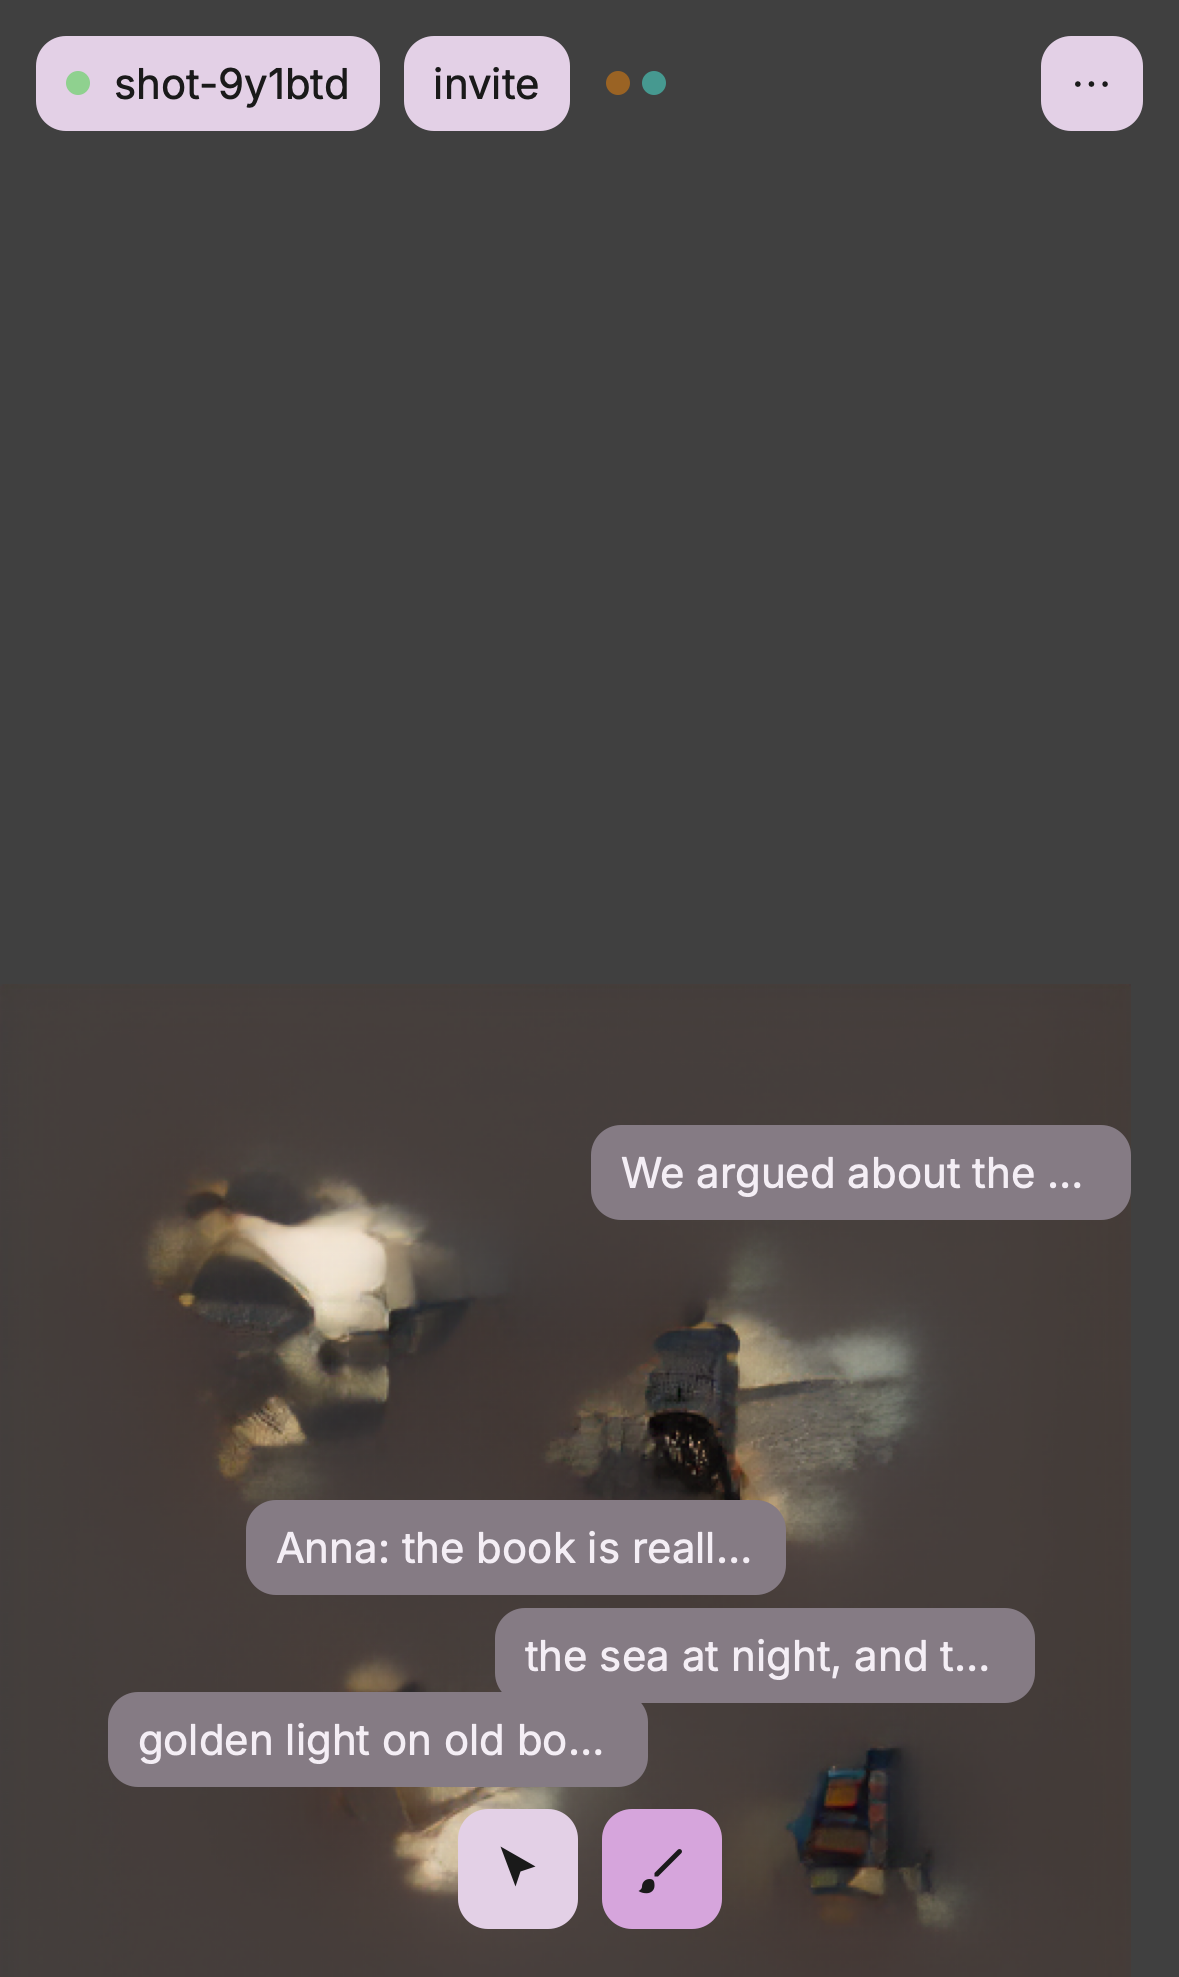
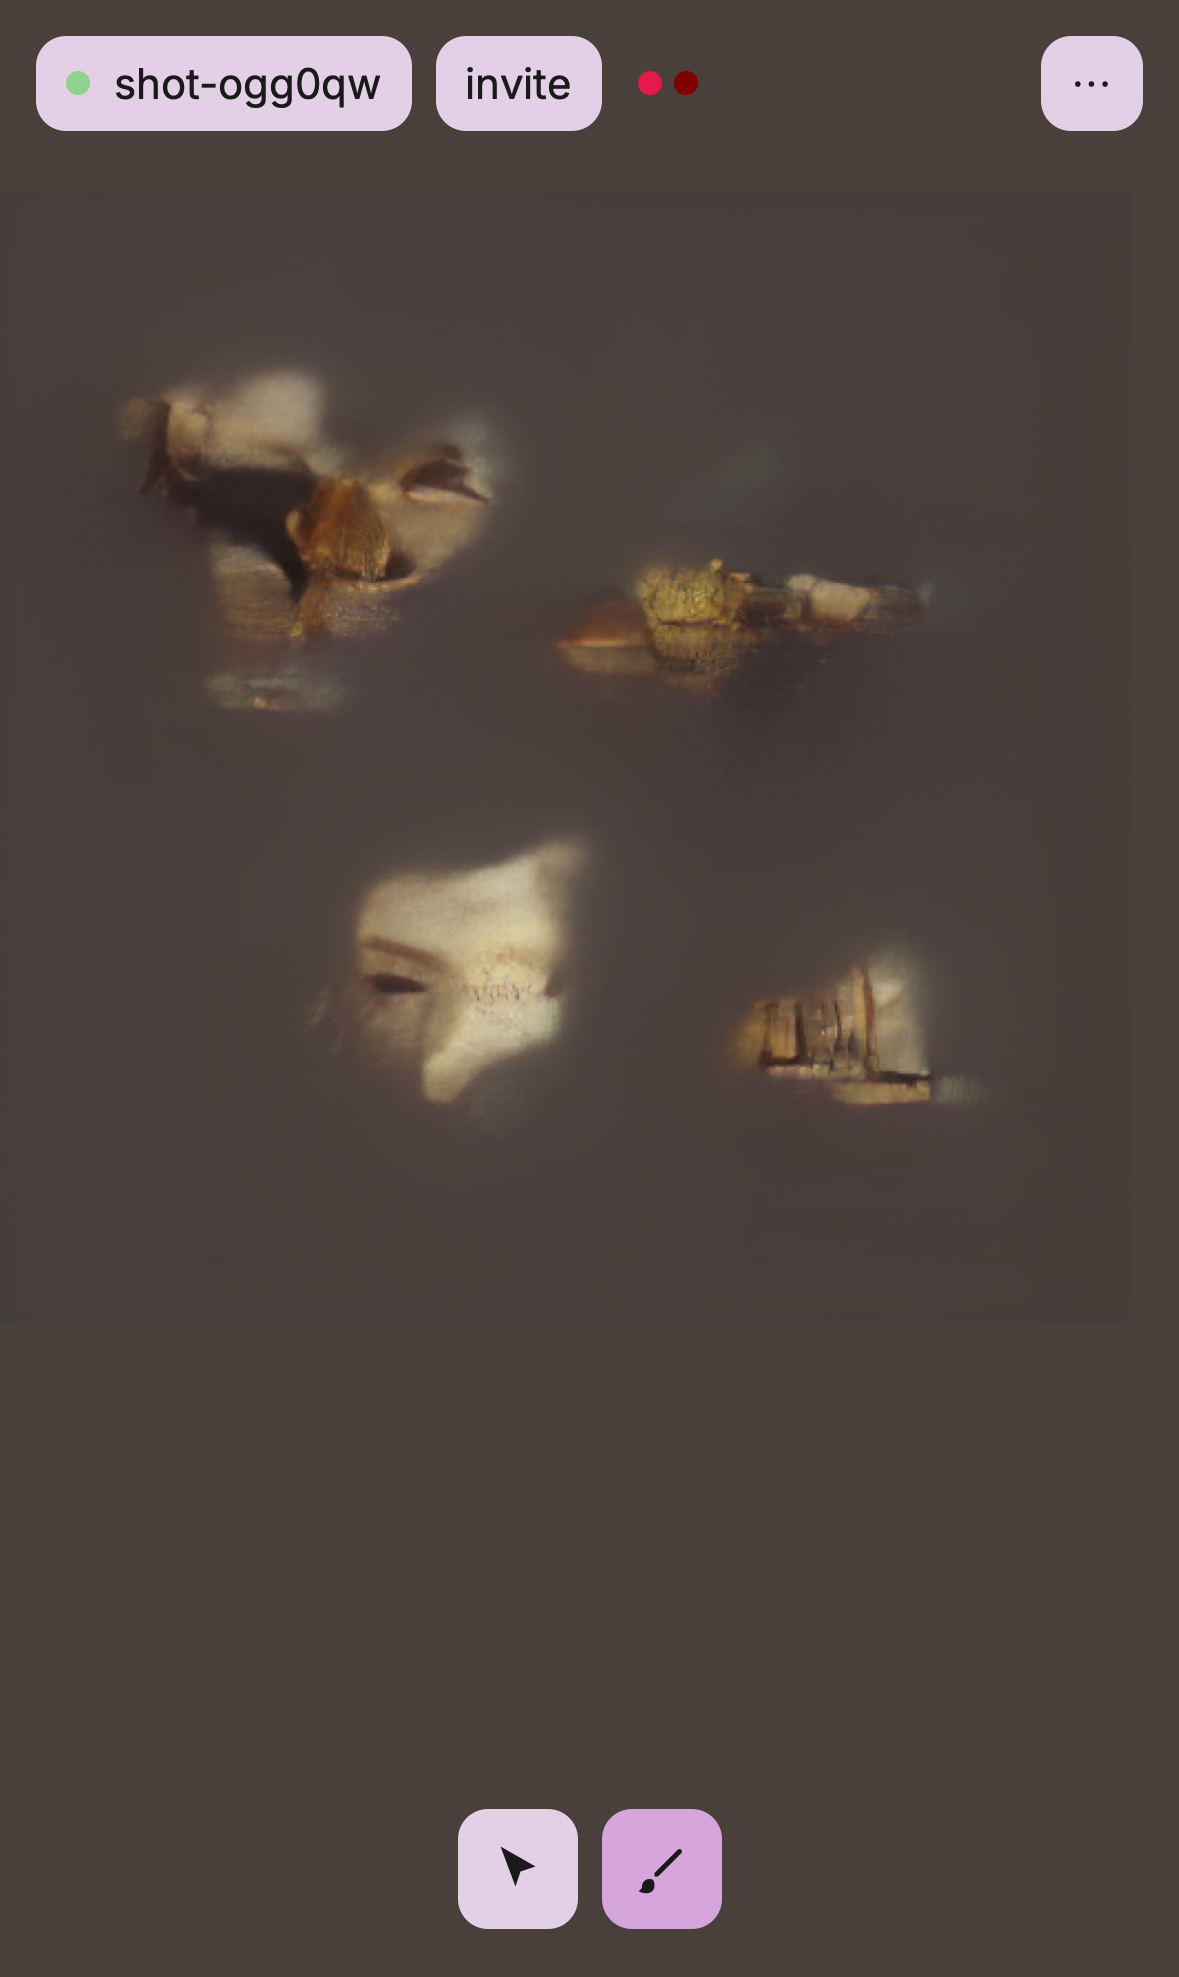
ui: smooth lasso shapes, page background matched to the blank canvas, phone canvas under the pills, screenshots

diff --git a/web/app/room.js b/web/app/room.js
@@ -59,13 +59,14 @@ const menu = mountMenu($('menu-root'), { efforts: CONFIG.efforts, effort, onEffo
 const tools = mountTools($('tools'), { tool, onChange: (t) => { tool = t; if (t === 'cursor') notes.cancel(); pendingShape = null; drawOverlay(); } });
 const loading = mountLoading($('loading'));
 const notes = mountNotes(stage, {
+  maxPills: isPhone ? 0 : 10,   // phones: only the tapped note shows
   anchorFor: (m) => view.anchorFor(m),
-  onSubmit: (mask, text) => { pendingShape = null; drawOverlay(); startStroke(mask, text); },
+  onSubmit: (mask, text) => { const pts = pendingShape && pendingShape.points; pendingShape = null; drawOverlay(); startStroke(mask, text, pts); },
   onCancel: () => { pendingShape = null; drawOverlay(); },
 });
 const view = mountCanvas(stage, {
   gridW: grid.w, gridH: grid.h, getTool: () => tool,
-  onLasso: (pts) => { if (!ready || painting) return; const m = lassoMask(pts, grid.w, grid.h); if (!m.count) return; pendingShape = { mask: m }; drawOverlay(); notes.edit(m); },
+  onLasso: (pts) => { if (!ready || painting) return; const m = lassoMask(pts, grid.w, grid.h); if (!m.count) return; pendingShape = { mask: m, points: pts }; drawOverlay(); notes.edit(m); },
   onCursor: (g) => room?.sendCursor(g[0], g[1]),
   onHover: (g, s) => { if (tool !== 'cursor') return; const st = g ? strokeAt(g[0], g[1]) : null; if ((st && st.id) !== notes.openId) { notes.open(st ? st.id : null); renderNotes(); } },
   onTap: (g) => { const st = strokeAt(g[0], g[1]); notes.open(st && notes.openId !== st.id ? st.id : null); renderNotes(); },
@@ -77,8 +78,8 @@ const setStatus = (s, ms) => toast.status(s, ms);
 const peerName = (id) => (id === room?.id ? myName : peers.get(id)?.name || 'someone');
 function drawOverlay() {
   const shapes = [...othersPainting.values()].map((j) => ({ mask: j._mask ||= maskFromString(j.mask), alpha: 0.2, label: `${peerName(j.by)}${j.for ? ' for ' + peerName(j.for) : ''}` }));
-  if (painting) shapes.push({ mask: painting.mask, alpha: 0.7 * (1 - (painting.progress || 0)) });
-  if (pendingShape) shapes.push({ mask: pendingShape.mask, alpha: 1 });
+  if (painting) shapes.push({ mask: painting.mask, points: painting.points, alpha: 0.7 * (1 - (painting.progress || 0)) });
+  if (pendingShape) shapes.push({ mask: pendingShape.mask, points: pendingShape.points, alpha: 1 });
   view.drawOverlay({ peers: [...peers.values()], shapes });
 }
 function renderPeers() {
@@ -107,10 +108,22 @@ async function redrawAll() {
   const img = await decoder.decode(grid.tokens, grid.h, grid.w);
   stats.fullDecodeMs = Math.round(decoder.lastMs);
   blitCHW(ctx, img.data, img.w, img.h, 0, 0);
+  matchBackground(img);
+}
+/** The page background takes the exact colour of blank canvas so canvas and page read as one surface. */
+function matchBackground(img) {
+  const plane = img.w * img.h; let r = 0, g = 0, b = 0, n = 0;
+  for (let y = 0; y < grid.h; y++) for (let x = 0; x < grid.w; x++) {
+    if (grid.tokens[y * grid.w + x] !== blankToken) continue;
+    const i = (y * F + 8) * img.w + x * F + 8; r += img.data[i]; g += img.data[plane + i]; b += img.data[2 * plane + i]; n++;
+  }
+  if (n < 16) return;
+  const rgb = `rgb(${Math.round(255 * r / n)}, ${Math.round(255 * g / n)}, ${Math.round(255 * b / n)})`;
+  document.documentElement.style.setProperty('--color-bg', rgb);
 }
 
 // ---------- strokes ----------
-async function startStroke(mask, text) {
+async function startStroke(mask, text, points = null) {
   if (!text) { setStatus('Write the note first.'); return; }
   if (!mask.count) return;
   const helper = bestHelper();
@@ -118,9 +131,9 @@ async function startStroke(mask, text) {
     if (helper || !canEverPaint()) return requestHelp(mask, text);
   }
   await ensurePainter();
-  return paintMask(mask, text, {});
+  return paintMask(mask, text, { points });
 }
-async function paintMask(mask, text, { author = myName, color = myColor, forId = null, reqId = null } = {}) {
+async function paintMask(mask, text, { author = myName, color = myColor, forId = null, reqId = null, points = null } = {}) {
   const cells = maskCells(mask);
   const before = cells.map(([x, y]) => grid.tokens[y * grid.w + x]);
   const paintedBefore = new Set(cells.filter(([x, y]) => painted(x, y)).map(([x, y]) => y * grid.w + x));
@@ -128,7 +141,7 @@ async function paintMask(mask, text, { author = myName, color = myColor, forId =
   const seconds = CONFIG.efforts[effort];
   const abort = new AbortController();
   const jobId = Math.random().toString(36).slice(2, 10);
-  painting = { abort, mask, jobId, forId, reqId, progress: 0 }; drawOverlay(); renderPeers(); menu.setUndoEnabled(false);
+  painting = { abort, mask, jobId, forId, reqId, progress: 0, points }; drawOverlay(); renderPeers(); menu.setUndoEnabled(false);
   room?.paintStart({ id: jobId, mask: maskToString(mask), text: text.slice(0, 80), for: forId });
   const t0 = performance.now();
   let lastSend = 0, ok = false;

diff --git a/web/app/components/canvas.js b/web/app/components/canvas.js
@@ -13,7 +13,8 @@ export function mountCanvas(stageEl, { gridW, gridH, getTool, onLasso, onHover, 
   function fit() {
     const W = stageEl.clientWidth, H = stageEl.clientHeight;
     scale = Math.min(W / (gridW * F), H / (gridH * F));
-    ox = Math.round((W - gridW * F * scale) / 2); oy = Math.round((H - gridH * F * scale) / 2);
+    ox = Math.round((W - gridW * F * scale) / 2);
+    oy = H > W * 1.2 ? Math.min(64, Math.round((H - gridH * F * scale) / 2)) : Math.round((H - gridH * F * scale) / 2);   // portrait: sit under the top pills
     for (const c of [canvas, overlay]) { c.style.width = gridW * F * scale + 'px'; c.style.height = gridH * F * scale + 'px'; c.style.left = ox + 'px'; c.style.top = oy + 'px'; }
     onResize?.();
   }
@@ -45,13 +46,15 @@ export function mountCanvas(stageEl, { gridW, gridH, getTool, onLasso, onHover, 
   canvas.addEventListener('pointercancel', () => { down = null; drawing = null; redraw(); });
   canvas.addEventListener('pointerleave', (ev) => { if (ev.pointerType !== 'touch' && !drawing) onHover?.(null); });
   let state = { peers: [], shapes: [] };
-  /** shapes: [{mask, alpha, color, label}] */
+  /** shapes: [{mask, alpha, color, label, points}] — with `points` (lasso, grid coords) the smooth polygon is drawn instead of cells */
   function drawOverlay(s) { state = s; redraw(); }
   function redraw() {
     octx.clearRect(0, 0, overlay.width, overlay.height);
     const fill = (m, color, alpha) => { octx.globalAlpha = alpha; octx.fillStyle = color; for (const [x, y] of maskCells(m)) octx.fillRect(x * F, y * F, F + 0.5, F + 0.5); octx.globalAlpha = 1; };
+    const poly = (pts, color, alpha) => { octx.globalAlpha = alpha; octx.fillStyle = color; octx.beginPath(); octx.moveTo(pts[0][0] * F, pts[0][1] * F); for (const [x, y] of pts) octx.lineTo(x * F, y * F); octx.closePath(); octx.fill(); octx.lineWidth = 3; octx.strokeStyle = color; octx.lineJoin = 'round'; octx.stroke(); octx.globalAlpha = 1; };
     for (const sh of state.shapes) {
-      fill(sh.mask, sh.color || css('--color-shape') || '#fff', sh.alpha);
+      if (sh.points && sh.points.length > 2) poly(sh.points, sh.color || css('--color-shape') || '#fff', sh.alpha);
+      else fill(sh.mask, sh.color || css('--color-shape') || '#fff', sh.alpha);
       if (sh.label) { octx.font = `${css('--font-size-small') || '12px'} ${css('--font-family') || 'sans-serif'}`; const w = octx.measureText(sh.label).width + 10; octx.fillStyle = css('--color-pill') || '#E3D0E6'; octx.beginPath(); octx.roundRect(sh.mask.x * F, sh.mask.y * F - 20, w, 18, 6); octx.fill(); octx.fillStyle = css('--color-text') || '#1A1A1A'; octx.fillText(sh.label, sh.mask.x * F + 5, sh.mask.y * F - 7); }
     }
     const r = parseFloat(css('--cursor-dot')) || 5, now = Date.now();

diff --git a/web/app/style.css b/web/app/style.css
@@ -35,7 +35,7 @@ button.pill:disabled { opacity: 0.5; cursor: default; }
 .note textarea { width: 240px; min-height: 1.4em; max-height: 40vh; resize: none; background: transparent; padding: 0; display: block; overflow: hidden; }
 .note .hint { font-size: var(--font-size-small); opacity: 0.7; margin-top: var(--space-1); }
 .note.done { background: var(--color-pill-done); color: var(--color-text-on-done); max-width: var(--note-pill-max-width); overflow: hidden; text-overflow: ellipsis; white-space: nowrap; cursor: default; }
-.note.done.open { max-width: var(--note-max-width); white-space: pre-wrap; }
+.note.done.open { max-width: var(--note-max-width); white-space: pre-wrap; z-index: calc(var(--z-note) + 1); }
 .note.done .meta { font-size: var(--font-size-small); opacity: 0.8; }
 .note[hidden] { display: none; }
 /* status pill, loading pill, messages */
